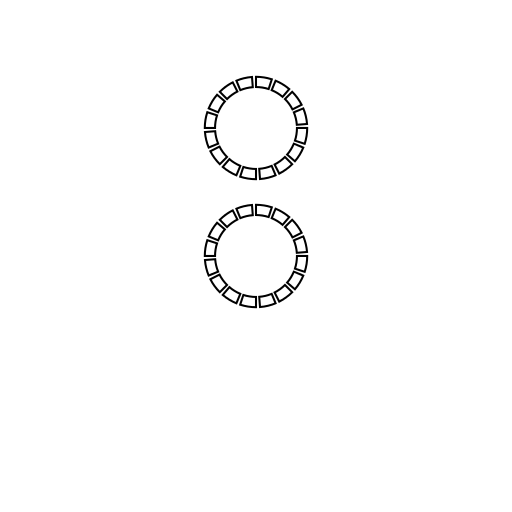
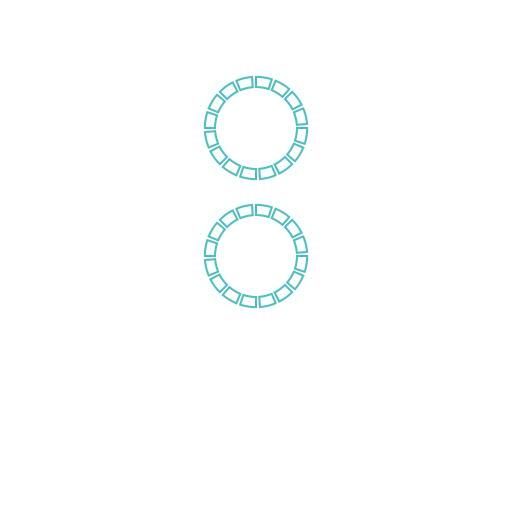
New files

Changed region(s): [[0.375, 0.125, 0.625, 0.625]]

diff --git a/myCairo.py b/myCairo.py
@@ -51,7 +51,7 @@ def doArc(ctx, cx, cy, r1, r2, start, delta, fillWith = None):
         ctx.arc( cx, cy , r1, start, start + delta)
         ctx.fill()
         ctx.close_path()
-    ctx.set_source_rgb (0, 0, 0) # Solid color
+    #ctx.set_source_rgb (0, 0, 0) # Solid color
     ctx.new_path()
     ctx.arc( cx, cy , r1, start, start + delta)
     ctx.arc_negative( cx, cy , r2, start + delta, start)
@@ -86,7 +86,6 @@ def makeFillers( sIdx, sTup, endIdx, endTup):
 fillers = makeFillers( 18, (0.0, 0.0, 1.0),
                        30, (1.0, 0.0, 0.0) )
 
-
 #fillers[0] = ( 1.0, 0.0, 1.0)
 #fillers[8] = ( 0.0, 1.0, 0.0)
 
@@ -95,10 +94,10 @@ def ringBuffer(ctx,
                outerRadius,
                innerRadius,
                segments,
-               dutyCycle, fillers = {}):
+               dutyCycle,
+               fillers = {}):
     dtheta = 2 * pi / segments
     wedgeTheta = dutyCycle * dtheta
-
     cx, cy = pos
     xs = frange(0, 2 * pi, dtheta)
     for i,x in enumerate(xs):
@@ -290,7 +289,11 @@ ctx.restore()
 surface.write_to_png ("example4.png") # Output to PNG
 
 
-def doSurf(SZ, dest, fillers = {}, SEGMENTS = 16):
+def doSurf(SZ,
+           dest,
+           fillers = {},
+           SEGMENTS = 16,
+           myColor = black):
     surface = cairo.ImageSurface (cairo.FORMAT_ARGB32, SZ, SZ)
     ctx = cairo.Context(surface)
     ctx.set_line_width (0.01)
@@ -299,15 +302,16 @@ def doSurf(SZ, dest, fillers = {}, SEGMENTS = 16):
     ctx.rectangle(0,0,1,1)
     ctx.fill()
     ctx.stroke()
-    black(ctx)
+    myColor(ctx)
     ringBuffer(ctx, (0.5, 0.5), 0.4, 0.8 * 0.4 , SEGMENTS, 0.75, fillers = fillers)
     surface.write_to_png (dest) # Output to PNG
-doSurf(300, "example5.png")
-
+    
+doSurf(300, "example5.png", myColor = red)
 doSurf(150, "trading_inout_queue.png")
-
-
-doSurf(600, "example6.png", fillers = fillers, SEGMENTS = 32)
+doSurf(600,
+       "example6.png",
+       fillers = fillers,
+       SEGMENTS = 32)
 
 def doCont(SZ, dest):
     surface = cairo.ImageSurface (cairo.FORMAT_ARGB32, SZ, SZ)
